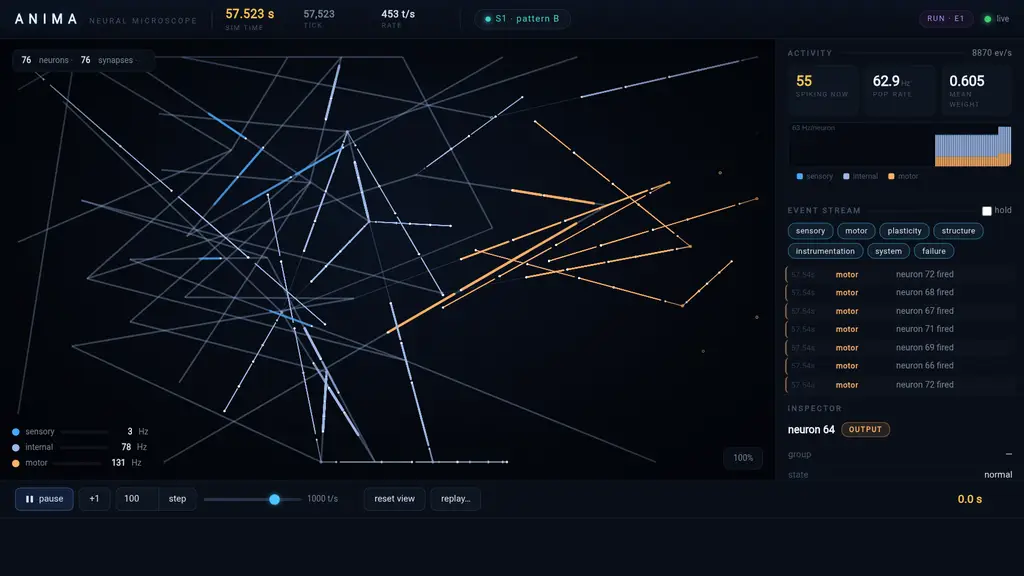
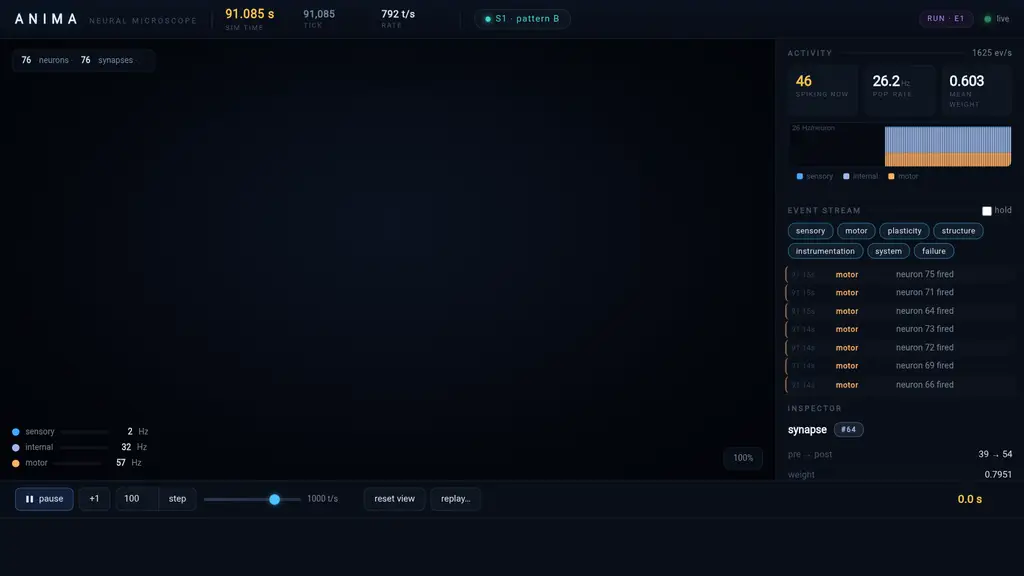
Viz: 1:1 panning with camera clamp, hard-pinned population columns
Pan fix: the pan handler converted hand movement to device pixels
(DPR 1.25+), over-amplifying every drag, and the camera had no bounds —
a modest swipe shoved the whole organism off-screen. Panning now tracks
CSS px (exact 1:1), the camera offset is clamped to ±85% of the canvas
so the graph can never leave view, and zoom range tightened to
0.55x–4x with the same clamp applied on wheel.

Layout fix: sensory/motor neurons were soft-pinned and the internal
repulsion pushed the columns into a ragged scatter with dead space at
the edges. Boundary populations are now hard-pinned: sensory neurons
form tight grouped columns (A/B/C) vertically centered on the left,
motor neurons a single centered column on the right; internal neurons
settle into a composed cloud between them under a centering force.
Layout warmup (320 pre-iterations) places everything at rest on first
paint, so the picture is composed the moment the page opens.

Verified: 150px drag → exactly 150px pan; clamp holds at extremes;
columns tight (17-23px spread per group); 39 tests green.

diff --git a/crates/anima-viz/web/index.html b/crates/anima-viz/web/index.html
@@ -793,22 +793,26 @@ function physics(dt) {
   const ns = [...S.neurons.values()];
   const inputs = ns.filter(n => n.cls === "input");
   const outputs = ns.filter(n => n.cls === "output");
-  // group-aware pinned columns: input left (grouped), output right
+  // Sensory: hard-pinned grouped columns, vertically centered.
+  // Motor: hard-pinned centered column. Hard pins keep the composition
+  // stable (columns can't be pushed apart by repulsion into a mess).
+  const internals = ns.filter(n => n.cls === "internal");
   const groupRows = {};
-  for (const n of inputs) {
-    (groupRows[n.group] = groupRows[n.group] || []).push(n);
-  }
+  for (const n of inputs) (groupRows[n.group] = groupRows[n.group] || []).push(n);
   const groups = Object.keys(groupRows);
+  const colGap = Math.min(64, W * 0.05);
+  const sensoryLeft = W * 0.09 - (groups.length - 1) * colGap / 2;
   groups.forEach((g, gi) => {
     const arr = groupRows[g];
+    const cx = sensoryLeft + gi * colGap;
     arr.forEach((n, i) => {
-      n.px = W * 0.075 + gi * W * 0.052;
-      n.py = H * (0.14 + 0.72 * (arr.length === 1 ? 0.5 : i / (arr.length - 1)));
+      n.px = cx;
+      n.py = H * 0.5 + (i - (arr.length - 1) / 2) * Math.min(58, H * 0.8 / Math.max(arr.length, 1));
     });
   });
   outputs.forEach((n, i) => {
-    n.px = W * 0.925;
-    n.py = H * (0.28 + 0.44 * (outputs.length === 1 ? 0.5 : i / (outputs.length - 1)));
+    n.px = W * 0.92;
+    n.py = H * 0.5 + (i - (outputs.length - 1) / 2) * Math.min(46, H * 0.6 / Math.max(outputs.length, 1));
   });
   const step = Math.min(ns.length, 400);
   for (let i = 0; i < step; i++) {
@@ -835,10 +839,14 @@ function physics(dt) {
     b.vx -= dx / d * f * d * 0.01; b.vy -= dy / d * f * d * 0.01;
   }
   for (const n of ns) {
-    if (n.px != null) {
-      n.vx += (n.px - n.x) * 0.08; n.vy += (n.py - n.y) * 0.08;
-      n.vx *= 0.5; n.vy *= 0.5;
+    if (n.px != null && n.cls !== "internal") {
+      // hard-ish pins: strong pull + damping, columns stay put
+      n.vx += (n.px - n.x) * 0.35; n.vy += (n.py - n.y) * 0.35;
+      n.vx *= 0.55; n.vy *= 0.55;
     } else {
+      // internal cluster: centering keeps the cloud composed between the columns
+      n.vx += (W * 0.5 - n.x) * 0.02;
+      n.vy += (H * 0.5 - n.y) * 0.03;
       n.vx *= 0.86; n.vy *= 0.86;
     }
     if (S.drag === n.id) { n.x = S.dragX; n.y = S.dragY; n.vx = n.vy = 0; continue; }
@@ -853,6 +861,15 @@ function physics(dt) {
 function s2w(x, y) {
   const W = canvas.width, H = canvas.height;
   return [(x - W / 2) / S.cam.z + W / 2 - S.cam.x, (y - H / 2) / S.cam.z + H / 2 - S.cam.y];
+}
+
+// keep the graph on screen: camera offset is capped so the organism can
+// never be panned out of view
+function clampCam() {
+  const W = canvas.width, H = canvas.height;
+  const spanX = W * 0.85, spanY = H * 0.85;
+  S.cam.x = Math.max(-spanX, Math.min(spanX, S.cam.x));
+  S.cam.y = Math.max(-spanY, Math.min(spanY, S.cam.y));
 }
 
 function draw() {
@@ -1292,19 +1309,21 @@ canvas.onmousedown = (e) => {
     renderInspector();
     return;
   }
-  // empty space: start pan
+  // empty space: start pan (CSS px, matching the move handler)
   S.panning = true;
-  S.panLastX = (e.clientX - rect.left) * devicePixelRatio;
-  S.panLastY = (e.clientY - rect.top) * devicePixelRatio;
+  S.panLastX = e.clientX - rect.left;
+  S.panLastY = e.clientY - rect.top;
 };
 canvas.onmousemove = (e) => {
   if (S.drag == null) {
     if (S.panning) {
+      // pan in CSS px: 1:1 hand movement (device px over-amplified)
       const rect = canvas.getBoundingClientRect();
-      const x = (e.clientX - rect.left) * devicePixelRatio, y = (e.clientY - rect.top) * devicePixelRatio;
+      const x = e.clientX - rect.left, y = e.clientY - rect.top;
       S.cam.x -= (x - S.panLastX) / S.cam.z; S.cam.y -= (y - S.panLastY) / S.cam.z;
       S.panLastX = x; S.panLastY = y;
       S.movedPan = true;
+      clampCam();
     }
     return;
   }
@@ -1331,7 +1350,8 @@ canvas.onmouseleave = () => {
 canvas.addEventListener("wheel", (e) => {
   e.preventDefault();
   const f = e.deltaY < 0 ? 1.12 : 1 / 1.12;
-  S.cam.z = Math.max(0.3, Math.min(6, S.cam.z * f));
+  S.cam.z = Math.max(0.55, Math.min(4, S.cam.z * f));
+  clampCam();
 }, { passive: false });
 
 function distSeg(px, py, x1, y1, x2, y2) {
@@ -1342,6 +1362,7 @@ function distSeg(px, py, x1, y1, x2, y2) {
   t = Math.max(0, Math.min(1, t));
   return Math.hypot(px - (x1 + t * dx), py - (y1 + t * dy));
 }
+
 
 let inspPending = false;
 function renderInspectorThrottled() {
